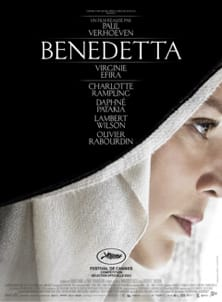
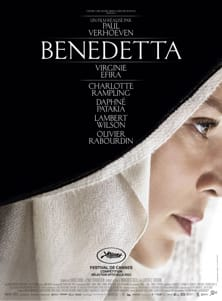
resized inline image juuuuuust slightly

diff --git a/_posts/2021-09-26-verhoeven-benedetta-your-sexy-nun-movie.md b/_posts/2021-09-26-verhoeven-benedetta-your-sexy-nun-movie.md
@@ -2,7 +2,7 @@
 title: "Next in tiresome discourse: The power and problem with your sexy nun movie"
 excerpt: "Too many contemporary critics are smug when they should be thoughtful. Case in point: The film twit response to a small protest outside the NYFF showing of \"Benedetta,\" Paul Verhoeven's latest."
 ---
-![Benedetta poster, 2021]({{ site.img }}benedetta-2021.jpg){: width="222" height="302" .top .float-left .border .edged }
+![Benedetta poster, 2021]({{ site.img }}benedetta-2021.jpg){: width="222" height="301" .top .float-left .border .edged }
 
 Too many contemporary critics are smug when they should be thoughtful. Case in point: The [#filmtwitter response](https://twitter.com/search?q=benedetta%20protest&src=typed_query) to a small protest outside the NYFF showing of "Benedetta," Paul Verhoeven's [lesbian nun movie](https://www.youtube.com/results?search_query=verhoeven+benedetta+trailer).
 
